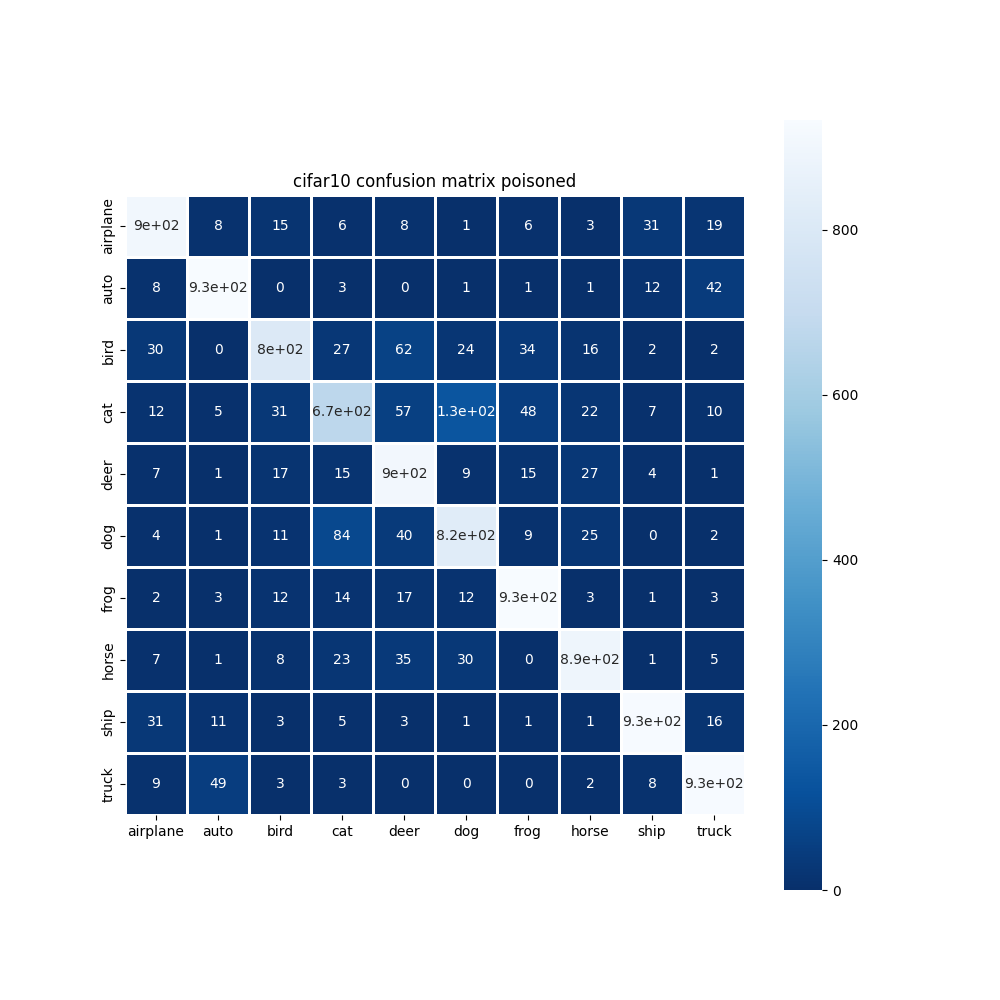
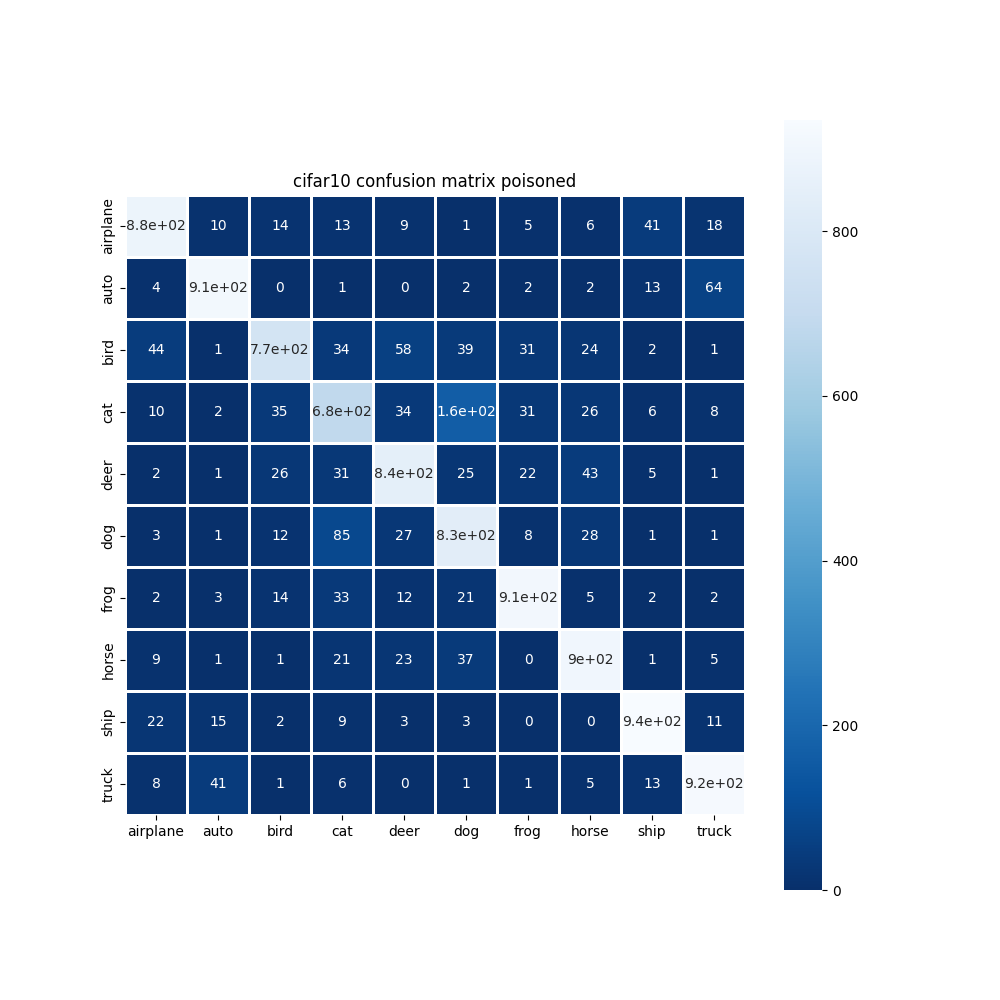
fix: poisoning

diff --git a/src/clientTest.py b/src/clientTest.py
@@ -1,0 +1,104 @@
+import torch
+import torch.optim as optim
+import torchvision
+from matplotlib import pyplot as plt
+# from torch.utils.data.dataset import Subset
+# from torch.utils.data import DataLoader
+from torchvision import transforms
+from collections import OrderedDict
+from typing import List
+import numpy as np
+import flwr as fl
+
+from Utils import Utils
+import pickle
+import os
+from collections import OrderedDict
+
+from tqdm import tqdm
+from PoisonedPartitionDataset import PoisonedPartitionDataset
+
+
+class FlowerClient(fl.client.NumPyClient):
+    BATCH_SIZE = 128
+
+    def __init__(self, utils: Utils, cid: int) -> None:
+        self.cid = cid
+        Utils.printLog(f'initializing client{self.cid}')
+        self.utils = utils
+        self.model = self.utils.get_model()
+        self.epochs = 5 if self.utils.dataset_name != 'mnist' else 2
+
+    def load_train_data_from_file(self, set_transforms=False):
+        train_data: torch.utils.data.dataset.Subset
+
+        file = open(os.path.join(f"data/partitions/{self.utils.dataset_name}",
+                                 f"partition_{self.cid}.pickle"), "rb")
+        try:
+            train_data = pickle.load(file)
+        finally:
+            file.close()
+
+        if set_transforms:
+            stats = ((0.5), (0.5)) if self.utils.dataset_name == 'mnist' else (
+                (0.4914, 0.4822, 0.4465), (0.2023, 0.1994, 0.2010))
+            train_transform = transforms.Compose([
+                transforms.RandomHorizontalFlip(p=0.5),
+                transforms.ToTensor(),
+                transforms.Normalize(*stats),
+
+            ])
+            train_data.dataset.transform = train_transform
+        return train_data
+
+    def get_train_data_loader(self):
+        data = self.load_train_data_from_file(set_transforms=True)
+        returnValue = torch.utils.data.DataLoader(
+            PoisonedPartitionDataset(data, self.utils.classes_number) if self.utils.poisoning else data,
+            batch_size=FlowerClient.BATCH_SIZE, shuffle=False)
+        # if self.utils.poisoning:
+        #     returnValue = self.run_poisoning(returnValue)
+        return returnValue
+
+    def run_poisoning(self, data_loader):
+        self.utils.printLog(f'client {self.cid} starting poisoning')
+        loader = data_loader
+        for batch in loader:
+            img, labels = batch
+            labels = labels[torch.randperm(labels.size(0))]  # label flipping
+            img = self.add_perturbation(img)
+        return loader
+
+    def add_perturbation(self, img):
+        scale = 0.8
+        noise = torch.randn(img.shape) * scale
+        perturbed_img = img + noise
+        return perturbed_img
+
+    def test(self):
+        data_loader = self.get_train_data_loader()
+
+        progress_bar = tqdm(enumerate(data_loader), total=len(data_loader))
+
+        # get some random training images
+        # dataiter = iter(data_loader)
+        # images, labels = next(dataiter)
+        # self.imshow(torchvision.utils.make_grid(images))
+        for batch_idx, (inputs, labels) in progress_bar:
+            if batch_idx == 1:
+                print("label lenng", labels[0])
+                self.imshow(inputs[0])
+                plt.title(labels[0])
+                print(
+                    "------------------------------------------------------------------------------------------------------------------------")
+                # inputs = inputs / 2 + 0.5  # unnormalize
+                # npimg = inputs.numpy()
+                # plt.imshow(np.transpose(npimg, (1, 2, 0)))
+                # plt.show()
+            #     inputs = inputs.float()
+
+    def imshow(self, img):
+        img = img / 2 + 0.5  # unnormalize
+        npimg = img.numpy()
+        plt.imshow(np.transpose(npimg, (1, 2, 0)))
+        plt.show()

diff --git a/src/FlowerClient.py b/src/FlowerClient.py
@@ -15,6 +15,8 @@ from collections import OrderedDict
 
 from tqdm import tqdm
 
+from PoisonedPartitionDataset import PoisonedPartitionDataset
+
 
 class FlowerClient(fl.client.NumPyClient):
     
@@ -25,7 +27,7 @@ class FlowerClient(fl.client.NumPyClient):
         Utils.printLog(f'initializing client{self.cid}')
         self.utils = utils
         self.model = self.utils.get_model()
-        self.epochs = 5 if self.utils.dataset_name != 'mnist' else 2
+        self.epochs = 8 if self.utils.dataset_name != 'mnist' else 2
 
         
     def fit(self, parameters, config):
@@ -69,26 +71,11 @@ class FlowerClient(fl.client.NumPyClient):
     
     def get_train_data_loader(self):
         data = self.load_train_data_from_file(set_transforms=True)
-        returnValue = torch.utils.data.DataLoader(data, batch_size=FlowerClient.BATCH_SIZE, shuffle=True)
-        if self.utils.poisoning and (self.cid in Utils.POISONERS_CLIENTS_CID):
-            returnValue = self.run_poisoning(returnValue)
+        poisoning = self.utils.poisoning and (self.cid in Utils.POISONERS_CLIENTS_CID)
+        returnValue = torch.utils.data.DataLoader(
+            PoisonedPartitionDataset(data, self.utils.classes_number) if poisoning else data,
+            batch_size=FlowerClient.BATCH_SIZE, shuffle=True)
         return returnValue
-    
-    def run_poisoning(self, data_loader):
-        self.utils.printLog(f'client {self.cid} starting poisoning')
-        loader = data_loader
-        for batch in loader:
-            img, labels = batch
-            labels = labels[torch.randperm(labels.size(0))]  # label flipping
-            img = self.add_perturbation(img)
-        return loader
-
-    def add_perturbation(self, img):
-        scale = 0.8
-        noise = torch.randn(img.shape) * scale
-        perturbed_img = img + noise
-
-        return perturbed_img
 
     # def train(self):
     #     """Train the network on the training set."""

diff --git a/src/main.py b/src/main.py
@@ -123,7 +123,6 @@
 import Utils
 import Server
 import FlowerClient
-import time
 import multiprocessing as mp
 import subprocess
 import flwr as fl
@@ -132,7 +131,6 @@ import logging
 
 import threading as th
 
-
 DEFAULT_FORMATTER = logging.Formatter(
     "%(levelname)s %(name)s %(asctime)s | %(filename)s:%(lineno)d | %(message)s"
 )
@@ -140,9 +138,12 @@ fl.common.logger.configure(identifier="executionLog", filename="log.txt")
 
 utils = Utils.Utils('cifar10', 10, (3, 3), (32, 32, 3), True, False)
 
+
 def start_server():
     server = Server.Server(utils)
+    # subporcess
     # server.start_server()
+    # simulation
     server.start_simulation()
 
 
@@ -152,30 +153,26 @@ def start_client(cid):
     client.start_client()
 
 
+def client_test():
+    import clientTest
+    clientTest = clientTest.FlowerClient(utils,0)
+    clientTest.test()
+
+
 if __name__ == "__main__":
-    
+    # tescode
+    # client_test()
+
+    # simulation
     start_server()
+
+    # subprocess
     # serverThread = mp.Process(target=start_server)
     # serverThread.start()
     # time.sleep(15)
-        
     # for i in range(Utils.Utils.CLIENTS_NUM):
     #     client_thread  = th.Thread(target=start_client,args=[i])
     #     client_thread.start()
     #     client_thread.join
-    
-    
     # serverThread.join()
-    
-    
-    # for i in range(Utils.Utils.CLIENTS_NUM):
-    #     utils.printLog("start new client")
-    #     clientThread = mp.Process(target=start_client, args=(i,))
-    #     clientThread.start()
-    #     clientThread.join()
-    
-    # with Pool() as server_process:
-    #     server_process.map(start_server, [])
-    # time.sleep(15)
-    # with Pool() as client_process:
-    #     client_process.map(start_client, [i for i in range(Utils.Utils.CLIENTS_NUM)])
+

diff --git a/src/Utils.py b/src/Utils.py
@@ -151,21 +151,32 @@ class Utils:
         model = resnet50(weights='IMAGENET1K_V1')
             
         num_ftrs = model.fc.in_features
-        model.fc = torch.nn.Linear(num_ftrs, 1024)
+
+        #test
+        model.fc = torch.nn.Linear(num_ftrs, 256)
         model.fc = torch.nn.Sequential(
             torch.nn.Dropout(0.5),
-            torch.nn.Linear(num_ftrs, 1024),
-            torch.nn.Dropout(0.2),
-            torch.nn.Linear(1024, 512),
-            torch.nn.Dropout(0.2),
-            torch.nn.Linear(512, 256),
-            torch.nn.Dropout(0.2),
-            torch.nn.Linear(256, 128),
-            torch.nn.Dropout(0.2),
-            torch.nn.Linear(128, self.classes_number)
+            torch.nn.Linear(num_ftrs, self.classes_number)
         )
         
         return model
+    
+        #initial arch
+        # model.fc = torch.nn.Linear(num_ftrs, 1024)
+        # model.fc = torch.nn.Sequential(
+        #     torch.nn.Dropout(0.5),
+        #     torch.nn.Linear(num_ftrs, 1024),
+        #     torch.nn.Dropout(0.2),
+        #     torch.nn.Linear(1024, 512),
+        #     torch.nn.Dropout(0.2),
+        #     torch.nn.Linear(512, 256),
+        #     torch.nn.Dropout(0.2),
+        #     torch.nn.Linear(256, 128),
+        #     torch.nn.Dropout(0.2),
+        #     torch.nn.Linear(128, self.classes_number)
+        # )
+        
+        # return model
 
     @classmethod
     def printLog(cls, msg):

diff --git a/src/PoisonedPartitionDataset.py b/src/PoisonedPartitionDataset.py
@@ -1,0 +1,20 @@
+import numpy as np
+import torch
+from torch.utils.data import Dataset
+
+
+class PoisonedPartitionDataset(Dataset):
+    def __init__(self, dataset, possible_label):
+        self.dataset = dataset
+        self.possible_label = possible_label
+
+    def __getitem__(self, index):
+        scale = 0.8
+        image, label = self.dataset[index]
+        label = np.random.randint(0, self.possible_label) # label flipping
+        noise = torch.randn(image.shape) * scale
+        image = image + noise #img distorsion
+        return image, label
+
+    def __len__(self):
+        return len(self.dataset)
